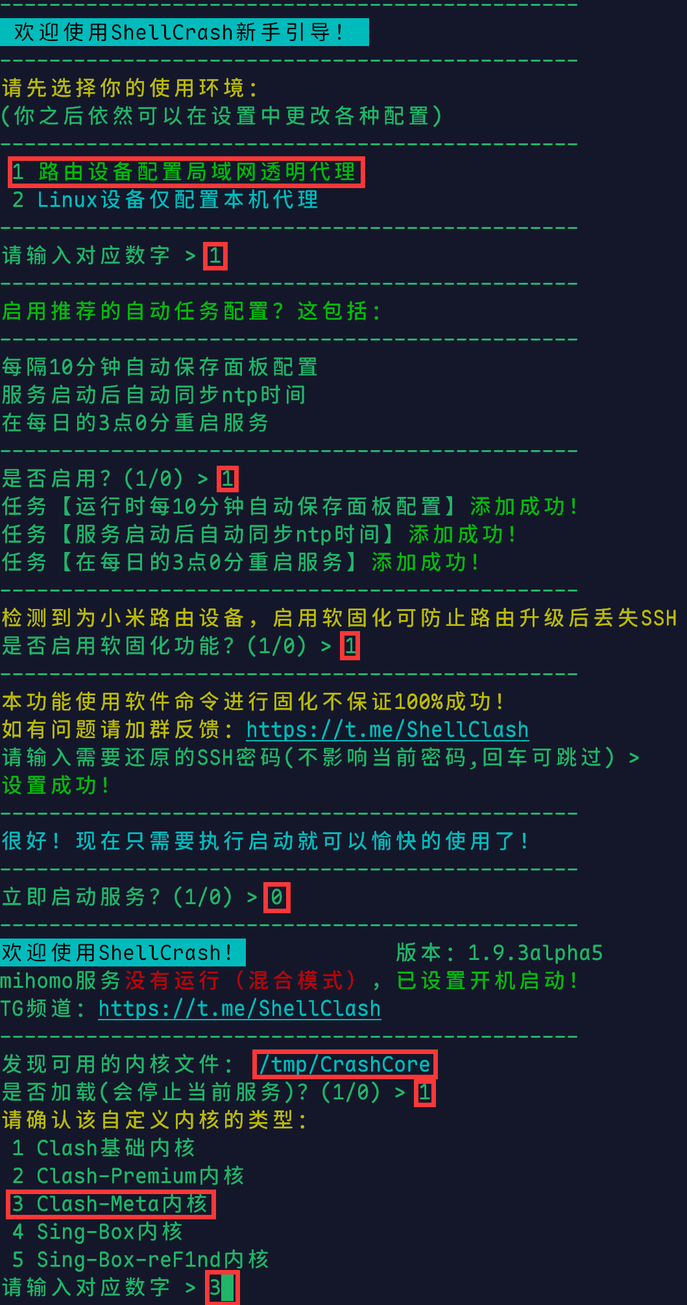
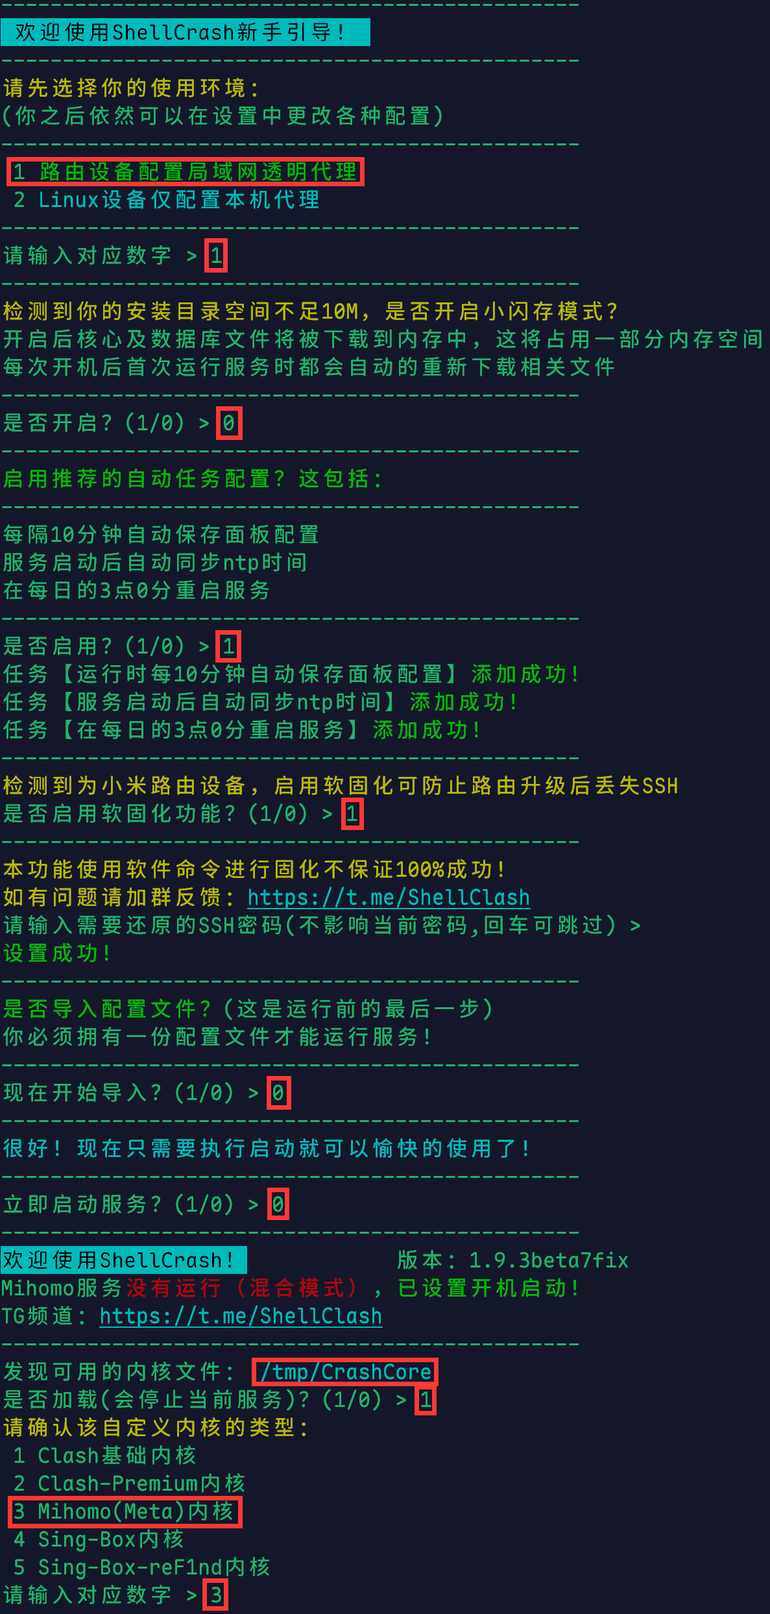
适配 ShellCrash 新版；其它一系列优化

Changed region(s): [[0.0, 0.0, 0.9972, 1.0]]

diff --git a/_posts/2024-08-21-pin-shellcrashadguardhome-singboxr.md b/_posts/2024-08-21-pin-shellcrashadguardhome-singboxr.md
@@ -9,7 +9,7 @@ pin: true
 
 > 说明
 {: .prompt-tip }
-1. 本教程基于 REDMI AX6000 [官方固件](https://www1.miwifi.com/miwifi_download.html) v1.0.70 版，[ShellCrash](https://github.com/juewuy/ShellCrash) v1.9.2 版，[AdGuard Home](https://github.com/AdguardTeam/AdGuardHome) v0.108.0 版编写
+1. 本教程基于 REDMI AX6000 [官方固件](https://www1.miwifi.com/miwifi_download.html) v1.0.70 版，[ShellCrash](https://github.com/juewuy/ShellCrash) v1.9.3 版，[AdGuard Home](https://github.com/AdguardTeam/AdGuardHome) v0.108.0 版编写
 2. 恢复 SSH，安装 ShellCrash 和 AdGuard Home 的方法也适用于其它已解锁 SSH 的路由器
 3. 安装 [sing-box reF1nd 版内核](https://github.com/reF1nd/sing-box) 内核和 AdGuard Home 时须注意路由器 CPU 架构，查看 CPU 架构可连接 SSH 后执行命令 `uname -ms`，若执行结果是“linux aarch64”，就下载 armv8 或 arm64 版安装包；若是其它架构请下载相匹配的安装包
 4. ShellCrash 和 AdGuard Home 中所有没有提到的配置保持默认即可
@@ -268,7 +268,8 @@ echo -e '12345678\n12345678' | passwd root
   ```
 
 - ③ 选择 1 安装到 /data 目录（推荐，支持软固化功能）
-- ④ 将下载的 sing-box-ref1nd-dev-linux-armv8.tar.gz 文件复制到桌面，以管理员身份运行 PowerShell，依次执行如下命令：
+- ④ 根据需要自定义别名（此处选择 `2`）
+- ⑤ 将下载的 sing-box-ref1nd-dev-linux-armv8.tar.gz 文件复制到桌面，以管理员身份运行 PowerShell，依次执行如下命令：
 
   ```
   cd C:\Users\[用户名]\Desktop
@@ -276,33 +277,31 @@ echo -e '12345678\n12345678' | passwd root
   ```
 
   .tar.gz 压缩文件成功解压到桌面上，目录结构为 `C:\Users\[用户名]\Desktop\CrashCore`{: .filepath}
-- ⑤ 将 CrashCore 文件移动到路由器的 `/tmp`{: .filepath} 目录中  
+- ⑥ 将 CrashCore 文件移动到路由器的 `/tmp`{: .filepath} 目录中  
   <img src="/assets/img/pin/move-sing-boxr.png" alt="ShellCrash 安装 2" width="60%" />
 
 **安装 ShellCrash 成功！**
 
 ### 2. ShellCrash 配置
-- ① 连接 SSH 后执行命令 `crash` 即可打开 ShellCrash 配置脚本
+- ① 连接 SSH 后执行命令 `sc` 即可打开 ShellCrash 配置脚本
 - ② 新手引导
   - ➊ 选择 1 路由设备配置局域网透明代理
-  - ➋ 启用推荐的自动任务配置
-  - ➌ 根据需要是否启用软固化（此处选择 `1`，解锁 SSH 时已成功启用软固化）
-  - ➍ 根据需要是否选择 1 确认导入配置文件（此处选择 `0`）
-  - ➎ 根据需要是否选择 1 立即启动服务（此处选择 `0`）
+  - ➋ 根据需要是否开启小内存模式（此处选择 `0`）
+  - ➌ 启用推荐的自动任务配置
+  - ➍ 根据需要是否启用软固化（此处选择 `1`，解锁 SSH 时已成功启用软固化）
+  - ➎ 根据需要是否选择 1 确认导入配置文件（此处选择 `0`）
+  - ➏ 根据需要是否选择 1 立即启动服务（此处选择 `0`）
     - 注：强烈建议选择 `0`，待以下配置完成后，最后一步启动服务
-  - ➏ 此时脚本会自动“发现可用的内核文件”，选择 `1` 加载，后选择 3 Sing-Box-Puer 内核  
+  - ➐ 此时脚本会自动“发现可用的内核文件”，选择 `1` 加载，后选择 3 Sing-Box-reF1nd 内核  
     <img src="/assets/img/pin/import-sing-boxr.png" alt="ShellCrash 配置 1" width="60%" />
 
-  - ➐ 内核加载完成后根据需要是否保留相关数据库文件（此处选择 `0`）
+  - ➑ 内核加载完成后根据需要是否保留相关数据库文件（此处选择 `0`）
 - ③ 模式设置
-  - ➊ 进入主菜单 → 2 内核功能设置 → 1 切换防火墙运行模式，选择 2 混合模式（推荐“混合模式”，其次“Tproxy 模式”，宽带在 300M 内推荐“Tun 模式”）
+  - ➊ 进入主菜单 → 2 内核功能设置 → 1 切换防火墙运行模式（推荐“混合模式”，其次“Tproxy 模式”，宽带在 300M 内推荐“Tun 模式”）
   - ➋ 进入 1 切换防火墙运行模式 → 9 ipv6 设置，若机场节点不支持 IPv6，可关闭 1 ipv6 透明代理  
     <img src="/assets/img/pin/ipv6-setting.png" alt="ShellCrash 配置 2" width="60%" />
 
-  - ➌ 进入 2 切换 DNS 运行模式，选择 3 mix 混合模式  
-    <img src="/assets/img/pin/mix-mix.png" alt="ShellCrash 配置 4" width="60%" />
-
-  - ➍ 进入 2 切换 DNS 运行模式 → 4 DNS 进阶设置，选择 7 禁用 DNS 劫持
+  - ➌ 进入 2 切换 DNS 运行模式 → 4 DNS 进阶设置，选择 7 禁用 DNS 劫持
     - 注：推荐设置 DNS 分流（单独使用 ShellCrash 以及 ShellCrash 搭配 AdGuard Home 都适用），请看《[搭载 sing-boxr 内核进行 DNS 分流教程-geodata 方案](https://proxy-tutorials.dustinwin.us.kg/posts/dnsbypass-singboxr-geodata)》或《[搭载 sing-boxr 内核进行 DNS 分流教程-ruleset 方案](https://proxy-tutorials.dustinwin.us.kg/posts/dnsbypass-singboxr-ruleset)》
 
     <img src="/assets/img/pin/dns-setting.png" alt="ShellCrash 配置 3" width="60%" />
@@ -330,12 +329,12 @@ echo -e '12345678\n12345678' | passwd root
 **配置 ShellCrash 成功！**
 
 **ShellCrash 常用命令：**
-1. 打开配置：`crash`
+1. 打开配置：`sc`
 2. 启动服务：`$CRASHDIR/start.sh start`
 3. 停止服务：`$CRASHDIR/start.sh stop`
 4. 重启服务：`$CRASHDIR/start.sh restart`
 5. 更新订阅：`$CRASHDIR/start.sh update_config`
-6. 查看帮助和说明：`crash -h`
+6. 查看帮助和说明：`sc -h`
 
 ### 3. ShellCrash 升级
 进入主菜单 → 9 更新/卸载，查看“管理脚本”、“内核文件”和“数据库文件”有无新版本，有则选择对应的数字进行升级即可  
@@ -343,7 +342,7 @@ echo -e '12345678\n12345678' | passwd root
 
 ### 4. ShellCrash 卸载
 - ① 通过脚本命令进行卸载（任选一）  
-  连接 SSH 后执行命令 `$CRASHDIR/start.sh stop && crash -u`
+  连接 SSH 后执行命令 `$CRASHDIR/start.sh stop && sc -u`
 - ② 通过 ShellCrash 配置进行卸载（任选一）  
   进入主菜单 → 9 更新/卸载，选择 9 卸载 ShellCrash
 

diff --git a/_posts/2024-08-21-pin-shellcrashadguardhome-mihomo.md b/_posts/2024-08-21-pin-shellcrashadguardhome-mihomo.md
@@ -9,7 +9,7 @@ pin: true
 
 > 说明
 {: .prompt-tip }
-1. 本教程基于 REDMI AX6000 [官方固件](https://www1.miwifi.com/miwifi_download.html) v1.0.70 版，[ShellCrash](https://github.com/juewuy/ShellCrash) v1.9.2 版，[AdGuard Home](https://github.com/AdguardTeam/AdGuardHome) v0.108.0 版编写
+1. 本教程基于 REDMI AX6000 [官方固件](https://www1.miwifi.com/miwifi_download.html) v1.0.70 版，[ShellCrash](https://github.com/juewuy/ShellCrash) v1.9.3 版，[AdGuard Home](https://github.com/AdguardTeam/AdGuardHome) v0.108.0 版编写
 2. 恢复 SSH，安装 ShellCrash 和 AdGuard Home 的方法也适用于其它已解锁 SSH 的路由器
 3. 安装 [mihomo 内核](https://github.com/MetaCubeX/mihomo)和 AdGuard Home 时须注意路由器 CPU 架构，查看 CPU 架构可连接 SSH 后执行命令 `uname -ms`，若执行结果是“linux aarch64”，就下载 armv8 或 arm64 版安装包；若是其它架构请下载相匹配的安装包
 4. ShellCrash 和 AdGuard Home 中所有没有提到的配置保持默认即可
@@ -268,35 +268,34 @@ echo -e '12345678\n12345678' | passwd root
   mkdir -p /tmp/SC_tmp && tar -zxf '/tmp/ShellCrash.tar.gz' -C /tmp/SC_tmp/ && source /tmp/SC_tmp/init.sh
   ```
 
-- ③ 选择 1 安装到 /data 目录（推荐，支持软固化功能）
-- ④ 将下载的 mihomo-linux-arm64-[version].gz 文件解压，得到 mihomo-linux-arm64 文件
-- ⑤ 将 mihomo-linux-arm64 文件移动到路由器的 `/tmp`{: .filepath} 目录中  
+- ③ 选择 1 安装到 /data 目录，剩余空间：*.*M（支持软固化功能）
+- ④ 根据需要自定义别名（此处选择 `2`）
+- ⑤ 将下载的 mihomo-linux-arm64-[version].gz 文件解压，得到 mihomo-linux-arm64 文件
+- ⑥ 将 mihomo-linux-arm64 文件移动到路由器的 `/tmp`{: .filepath} 目录中  
   <img src="/assets/img/pin/move-mihomo.png" alt="ShellCrash 安装 2" width="60%" />
 
 **安装 ShellCrash 成功！**
 
 ### 2. ShellCrash 配置
-- ① 连接 SSH 后执行命令 `crash` 即可打开 ShellCrash 配置脚本
+- ① 连接 SSH 后执行命令 `sc` 即可打开 ShellCrash 配置脚本
 - ② 新手引导
   - ➊ 选择 1 路由设备配置局域网透明代理
-  - ➋ 启用推荐的自动任务配置
-  - ➌ 根据需要是否启用软固化（此处选择 `1`，解锁 SSH 时已成功启用软固化）
-  - ➍ 根据需要是否选择 1 确认导入配置文件（此处选择 `0`）
-  - ➎ 根据需要是否选择 1 立即启动服务（此处选择 `0`）
+  - ➋ 根据需要是否开启小内存模式（此处选择 `0`）
+  - ➌ 启用推荐的自动任务配置
+  - ➍ 根据需要是否启用软固化（此处选择 `1`，解锁 SSH 时已成功启用软固化）
+  - ➎ 根据需要是否选择 1 确认导入配置文件（此处选择 `0`）
+  - ➏ 根据需要是否选择 1 立即启动服务（此处选择 `0`）
     - 注：强烈建议选择 `0`，待以下配置完成后，最后一步启动服务
-  - ➏ 此时脚本会自动“发现可用的内核文件”，选择 `1` 加载，后选择 3 Clash-Meta 内核  
+  - ➐ 此时脚本会自动“发现可用的内核文件”，选择 `1` 加载，后选择 3 Mihomo(Meta) 内核  
     <img src="/assets/img/pin/import-mihomo.png" alt="ShellCrash 配置 1" width="60%" />
 
-  - ➐ 内核加载完成后根据需要是否保留相关数据库文件（此处选择 `0`）
+  - ➑ 内核加载完成后根据需要是否保留相关数据库文件（此处选择 `0`）
 - ③ 模式设置
-  - ➊ 进入主菜单 → 2 内核功能设置 → 1 切换防火墙运行模式，选择 2 混合模式（推荐“混合模式”，其次“Tproxy 模式”，宽带在 300M 内推荐“Tun 模式”）
+  - ➊ 进入主菜单 → 2 内核功能设置 → 1 切换防火墙运行模式（推荐“混合模式”，其次“Tproxy 模式”，宽带在 300M 内推荐“Tun 模式”）
   - ➋ 进入 1 切换防火墙运行模式 → 9 ipv6 设置，若机场节点不支持 IPv6，可关闭 1 ipv6 透明代理  
     <img src="/assets/img/pin/ipv6-setting.png" alt="ShellCrash 配置 2" width="60%" />
 
-  - ➌ 进入 2 切换 DNS 运行模式，选择 3 mix 混合模式  
-    <img src="/assets/img/pin/mix-mix.png" alt="ShellCrash 配置 4" width="60%" />
-
-  - ➍ 进入 2 切换 DNS 运行模式 → 4 DNS 进阶设置，选择 7 禁用 DNS 劫持
+  - ➌ 进入 2 切换 DNS 运行模式 → 4 DNS 进阶设置，选择 7 禁用 DNS 劫持
     - 注：推荐设置 DNS 分流（单独使用 ShellCrash 以及 ShellCrash 搭配 AdGuard Home 都适用），请看《[搭载 mihomo 内核进行 DNS 分流教程-geodata 方案](https://proxy-tutorials.dustinwin.us.kg/posts/dnsbypass-mihomo-geodata)》或《[搭载 mihomo 内核进行 DNS 分流教程-ruleset 方案](https://proxy-tutorials.dustinwin.us.kg/posts/dnsbypass-mihomo-ruleset)》
 
     <img src="/assets/img/pin/dns-setting.png" alt="ShellCrash 配置 3" width="60%" />
@@ -325,12 +324,12 @@ echo -e '12345678\n12345678' | passwd root
 **配置 ShellCrash 成功！**
 
 **ShellCrash 常用命令：**
-1. 打开配置：`crash`
+1. 打开配置：`sc`
 2. 启动服务：`$CRASHDIR/start.sh start`
 3. 停止服务：`$CRASHDIR/start.sh stop`
 4. 重启服务：`$CRASHDIR/start.sh restart`
 5. 更新订阅：`$CRASHDIR/start.sh update_config`
-6. 查看帮助和说明：`crash -h`
+6. 查看帮助和说明：`sc -h`
 
 ### 3. ShellCrash 升级
 进入主菜单 → 9 更新/卸载，查看“管理脚本”、“内核文件”和“数据库文件”有无新版本，有则选择对应的数字进行升级即可  
@@ -338,7 +337,7 @@ echo -e '12345678\n12345678' | passwd root
 
 ### 4. ShellCrash 卸载
 - ① 通过脚本命令进行卸载（任选一）  
-  连接 SSH 后执行命令 `$CRASHDIR/start.sh stop && crash -u`
+  连接 SSH 后执行命令 `$CRASHDIR/start.sh stop && sc -u`
 - ② 通过 ShellCrash 配置进行卸载（任选一）  
   进入主菜单 → 9 更新/卸载，选择 9 卸载 ShellCrash
 

diff --git a/_posts/2024-08-21-toolsettings-shellcrash-mihomo-geodata.md b/_posts/2024-08-21-toolsettings-shellcrash-mihomo-geodata.md
@@ -48,22 +48,21 @@ curl -o $CRASHDIR/Country.mmdb -L https://cdn.jsdelivr.net/gh/DustinWin/ruleset_
 1. 连接 SSH 后执行命令 `crash` 即可打开 ShellCrash 配置脚本
 2. 新手引导
    - ① 选择 1 路由设备配置局域网透明代理
-   - ② 启用推荐的自动任务配置
-   - ③ 根据需要是否启用软固化（此处选择 `1`，解锁 SSH 时已成功启用软固化）
-   - ④ 根据需要是否选择 1 确认导入配置文件（此处选择 `0`）
-   - ⑤ 根据需要是否选择 1 立即启动服务（此处选择 `0`）
+   - ② 根据需要是否开启小内存模式（此处选择 `0`）
+   - ③ 启用推荐的自动任务配置
+   - ④ 根据需要是否启用软固化（此处选择 `1`，解锁 SSH 时已成功启用软固化）
+   - ⑤ 根据需要是否选择 1 确认导入配置文件（此处选择 `0`）
+   - ⑥ 根据需要是否选择 1 立即启动服务（此处选择 `0`）
      - 注：强烈建议选择 `0`，待以下配置完成后，最后一步启动服务
-   - ⑥ 此时脚本会自动“发现可用的内核文件”，选择 `1` 加载，后选择 3 Clash-Meta 内核  
+   - ⑦ 此时脚本会自动“发现可用的内核文件”，选择 `1` 加载，后选择 3 Mihomo(Meta) 内核  
      <img src="/assets/img/pin/import-mihomo.png" alt="ShellCrash 配置 1" width="60%" />
 
-   - ⑦ 内核加载完成后根据需要是否保留相关数据库文件（此处选择 `0`）
+   - ⑧ 内核加载完成后根据需要是否保留相关数据库文件（此处选择 `0`）
 3. 进入主菜单 → 9 更新/卸载 → 7 切换安装源及安装版本，选择 b 切换至公测版 → 1 Jsdelivr_CDN源（推荐）
 4. 进入主菜单 → 9 更新/卸载 → 4 安装本地 Dashboard 面板，选择 4 安装 zashboard 面板（也可跳过此步，直接使用《[五](https://proxy-tutorials.dustinwin.us.kg/posts/toolsettings-shellcrash-mihomo-geodata/#%E4%BA%94-%E5%9C%A8%E7%BA%BF-dashboard-%E9%9D%A2%E6%9D%BF)》中的在线 Dashboard 面板）  
 <img src="/assets/img/tools/install-dashboard.png" alt="安装面板" width="60%" />
 
-5. 进入主菜单 → 2 内核功能设置，设置如下（推荐“混合模式”，其次“Tproxy 模式”，宽带在 300M 内推荐“Tun 模式”）：  
-<img src="/assets/img/pin/mix-mix.png" alt="设置部分 1" width="60%" />
-
+5. 进入主菜单 → 2 内核功能设置（推荐“混合模式”，其次“Tproxy 模式”，宽带在 300M 内推荐“Tun 模式”）
 6. 进入主菜单 → 4 内核启动设置，选择 1 允许 ShellCrash 开机启动（若重启路由器后服务没有自动运行，可“设置自启延时”为 `30` 秒）
 7. 进入主菜单 → 5 配置自动任务 → 1 添加自动任务，可以看到末尾就有《[三](https://proxy-tutorials.dustinwin.us.kg/posts/toolsettings-shellcrash-mihomo-geodata/#%E4%B8%89-%E6%B7%BB%E5%8A%A0%E5%AE%9A%E6%97%B6%E4%BB%BB%E5%8A%A1)》中添加的定时任务，输入对应的数字并回车后可设置执行条件
 8. 进入主菜单 → 7 内核进阶设置 → 4 启用域名嗅探（若 `$CRASHDIR/yamls/user.yaml` 配置了 `sniffer` 则跳过此步骤）

diff --git a/_posts/2024-08-21-toolsettings-shellcrash-mihomo-ruleset.md b/_posts/2024-08-21-toolsettings-shellcrash-mihomo-ruleset.md
@@ -39,22 +39,21 @@ curl -L https://ghfast.top/https://github.com/DustinWin/proxy-tools/releases/dow
 1. 连接 SSH 后执行命令 `crash` 即可打开 ShellCrash 配置脚本
 2. 新手引导
    - ① 选择 1 路由设备配置局域网透明代理
-   - ② 启用推荐的自动任务配置
-   - ③ 根据需要是否启用软固化（此处选择 `1`，解锁 SSH 时已成功启用软固化）
-   - ④ 根据需要是否选择 1 确认导入配置文件（此处选择 `0`）
-   - ⑤ 根据需要是否选择 1 立即启动服务（此处选择 `0`）
+   - ② 根据需要是否开启小内存模式（此处选择 `0`）
+   - ③ 启用推荐的自动任务配置
+   - ④ 根据需要是否启用软固化（此处选择 `1`，解锁 SSH 时已成功启用软固化）
+   - ⑤ 根据需要是否选择 1 确认导入配置文件（此处选择 `0`）
+   - ⑥ 根据需要是否选择 1 立即启动服务（此处选择 `0`）
      - 注：强烈建议选择 `0`，待以下配置完成后，最后一步启动服务
-   - ⑥ 此时脚本会自动“发现可用的内核文件”，选择 `1` 加载，后选择 3 Clash-Meta 内核  
+   - ⑦ 此时脚本会自动“发现可用的内核文件”，选择 `1` 加载，后选择 3 Mihomo(Meta) 内核  
      <img src="/assets/img/pin/import-mihomo.png" alt="ShellCrash 配置 1" width="60%" />
 
-   - ⑦ 内核加载完成后根据需要是否保留相关数据库文件（此处选择 `0`）
+   - ⑧ 内核加载完成后根据需要是否保留相关数据库文件（此处选择 `0`）
 3. 进入主菜单 → 9 更新/卸载 → 7 切换安装源及安装版本，选择 b 切换至公测版 → 1 Jsdelivr_CDN源（推荐）
 4. 进入主菜单 → 9 更新/卸载 → 4 安装本地 Dashboard 面板，选择 4 安装 zashboard 面板（也可跳过此步，直接使用《[四](https://proxy-tutorials.dustinwin.us.kg/posts/toolsettings-shellcrash-mihomo-ruleset/#%E5%9B%9B-%E5%9C%A8%E7%BA%BF-dashboard-%E9%9D%A2%E6%9D%BF)》中的在线 Dashboard 面板）  
 <img src="/assets/img/tools/install-dashboard.png" alt="安装面板" width="60%" />
 
-5. 进入主菜单 → 2 内核功能设置，设置如下（推荐“混合模式”，其次“Tproxy 模式”，宽带在 300M 内推荐“Tun 模式”）：  
-<img src="/assets/img/pin/mix-mix.png" alt="设置部分 1" width="60%" />
-
+5. 进入主菜单 → 2 内核功能设置（推荐“混合模式”，其次“Tproxy 模式”，宽带在 300M 内推荐“Tun 模式”）
 6. 进入主菜单 → 4 内核启动设置，选择 1 允许 ShellCrash 开机启动（若重启路由器后服务没有自动运行，可“设置自启延时”为 `30` 秒）
 7. 进入主菜单 → 5 配置自动任务 → 1 添加自动任务，可以看到末尾就有《[二](https://proxy-tutorials.dustinwin.us.kg/posts/toolsettings-shellcrash-mihomo-ruleset/#%E4%BA%8C-%E6%B7%BB%E5%8A%A0%E5%AE%9A%E6%97%B6%E4%BB%BB%E5%8A%A1)》中添加的定时任务，输入对应的数字并回车后可设置执行条件
 8. 进入主菜单 → 7 内核进阶设置 → 4 启用域名嗅探（若 `$CRASHDIR/yamls/user.yaml` 配置了 `sniffer` 则跳过此步骤）

diff --git a/_posts/2024-08-22-toolsettings-shellcrash-singboxr-ruleset.md b/_posts/2024-08-22-toolsettings-shellcrash-singboxr-ruleset.md
@@ -39,22 +39,21 @@ curl -L https://ghfast.top/https://github.com/DustinWin/proxy-tools/releases/dow
 1. 连接 SSH 后执行命令 `crash` 即可打开 ShellCrash 配置脚本
 2. 新手引导
    - ① 选择 1 路由设备配置局域网透明代理
-   - ② 启用推荐的自动任务配置
-   - ③ 根据需要是否启用软固化（此处选择 `1`，解锁 SSH 时已成功启用软固化）
-   - ④ 根据需要是否选择 1 确认导入配置文件（此处选择 `0`）
-   - ⑤ 根据需要是否选择 1 立即启动服务（此处选择 `0`）
+   - ② 根据需要是否开启小内存模式（此处选择 `0`）
+   - ③ 启用推荐的自动任务配置
+   - ④ 根据需要是否启用软固化（此处选择 `1`，解锁 SSH 时已成功启用软固化）
+   - ⑤ 根据需要是否选择 1 确认导入配置文件（此处选择 `0`）
+   - ⑥ 根据需要是否选择 1 立即启动服务（此处选择 `0`）
      - 注：强烈建议选择 `0`，待以下配置完成后，最后一步启动服务
-   - ⑥ 此时脚本会自动“发现可用的内核文件”，选择 `1` 加载，后选择 3 Sing-Box-Puer 内核  
+   - ⑦ 此时脚本会自动“发现可用的内核文件”，选择 `1` 加载，后选择 3 Sing-Box-reF1nd 内核  
      <img src="/assets/img/pin/import-sing-boxr.png" alt="ShellCrash 配置 1" width="60%" />
 
-   - ⑦ 内核加载完成后根据需要是否保留相关数据库文件（此处选择 `0`）
+   - ⑧ 内核加载完成后根据需要是否保留相关数据库文件（此处选择 `0`）
 3. 进入主菜单 → 9 更新/卸载 → 7 切换安装源及安装版本，选择 b 切换至公测版 → 1 Jsdelivr_CDN源（推荐）
 4. 进入主菜单 → 9 更新/卸载 → 4 安装本地 Dashboard 面板，选择 3 安装 MetaXD 面板（也可跳过此步，使用《[四](https://proxy-tutorials.dustinwin.us.kg/posts/toolsettings-shellcrash-singboxr-ruleset/#%E5%9B%9B-%E5%9C%A8%E7%BA%BF-dashboard-%E9%9D%A2%E6%9D%BF)》中的在线 Dashboard 面板）  
 <img src="/assets/img/tools/install-dashboard.png" alt="安装面板" width="60%" />
 
-5. 进入主菜单 → 2 内核功能设置，设置如下（推荐“混合模式”，其次“Tproxy 模式”，宽带在 300M 内推荐“Tun 模式”）：  
-<img src="/assets/img/pin/mix-mix.png" alt="设置部分 1" width="60%" />
-
+5. 进入主菜单 → 2 内核功能设置（推荐“混合模式”，其次“Tproxy 模式”，宽带在 300M 内推荐“Tun 模式”）
 6. 进入主菜单 → 4 内核启动设置，选择 1 允许 ShellCrash 开机启动（若重启路由器后服务没有自动运行，可“设置自启延时”为 `30` 秒）
 7. 进入主菜单 → 5 配置自动任务 → 1 添加自动任务，可以看到末尾就有《[二](https://proxy-tutorials.dustinwin.us.kg/posts/toolsettings-shellcrash-singboxr-ruleset/#%E4%BA%8C-%E6%B7%BB%E5%8A%A0%E5%AE%9A%E6%97%B6%E4%BB%BB%E5%8A%A1)》中添加的定时任务，输入对应的数字并回车后可设置执行条件
 8. 进入主菜单 → 7 内核进阶设置 → 4 启用域名嗅探

diff --git a/_posts/2024-08-21-dnsbypass-mihomo-geodata.md b/_posts/2024-08-21-dnsbypass-mihomo-geodata.md
@@ -17,13 +17,10 @@ tags: [Clash, mihomo, 进阶, DNS, DNS 分流]
 geosite.dat 文件须包含 `fakeip-filter` 和 `cn`，推荐导入我定制的[路由规则文件](https://github.com/DustinWin/ruleset_geodata?tab=readme-ov-file#%E4%B8%80-geodata-%E6%96%87%E4%BB%B6%E8%AF%B4%E6%98%8E)
 
 ## 二、 DNS 分流配置
-1. 进入主菜单 → 2 内核功能设置 → 2 切换 DNS 运行模式，选择“3 mix混合模式”  
-<img src="/assets/img/dns/dns-mix.png" alt="ShellCrash DNS 运行模式设置" width="60%" />
-
-2. 进入主菜单 → 2 内核功能设置 → 2 切换 DNS 运行模式 → 4 DNS 进阶设置，将“当前基础 DNS”和“PROXY-DNS”都设置为 `null`  
+1. 进入主菜单 → 2 内核功能设置 → 2 切换 DNS 运行模式 → 4 DNS 进阶设置，将“当前基础 DNS”和“PROXY-DNS”都设置为 `null`  
 <img src="/assets/img/dns/dns-null.png" alt="ShellCrash DNS 进阶设置" width="60%" />
 
-3. 连接 SSH 后执行命令 `vi $CRASHDIR/yamls/user.yaml`，按一下 Ins 键（Insert 键），粘贴如下内容：
+2. 连接 SSH 后执行命令 `vi $CRASHDIR/yamls/user.yaml`，按一下 Ins 键（Insert 键），粘贴如下内容：
 
 ```yaml
 hosts:

diff --git a/_posts/2024-08-22-share-shellcrashadguardhome-singboxr-ruleset.md b/_posts/2024-08-22-share-shellcrashadguardhome-singboxr-ruleset.md
@@ -294,10 +294,9 @@ crash
       { "ip_accept_any": true, "server": "hosts" },
       { "clash_mode": [ "Direct" ], "query_type": [ "A", "AAAA" ], "server": "dns_direct" },
       { "clash_mode": [ "Global" ], "query_type": [ "A", "AAAA" ], "server": "dns_proxy" },
-      { "rule_set": [ "ads" ], "action": "predefined" },
-      { "domain": [ "services.googleapis.cn" ], "query_type": [ "A", "AAAA" ], "server": "dns_fakeip" },
-      { "rule_set": [ "fakeip-filter", "private", "cn" ], "query_type": [ "A", "AAAA" ], "server": "dns_direct", "rewrite_ttl": 1 },
-      { "rule_set": [ "proxy" ], "query_type": [ "A", "AAAA" ], "server": "dns_fakeip" }
+      { "rule_set": [ "fakeip-filter" ], "query_type": [ "A", "AAAA" ], "server": "dns_direct", "rewrite_ttl": 1 },
+      { "rule_set": [ "proxy" ], "query_type": [ "A", "AAAA" ], "server": "dns_fakeip" },
+      { "rule_set": [ "private", "cn" ], "query_type": [ "A", "AAAA" ], "server": "dns_direct", "rewrite_ttl": 1 }
     ],
     "final": "dns_proxy",
     "strategy": "prefer_ipv4",

diff --git a/_posts/2024-08-21-dnsbypass-mihomo-ruleset.md b/_posts/2024-08-21-dnsbypass-mihomo-ruleset.md
@@ -36,13 +36,10 @@ rule-providers:
 ```
 
 ## 二、 DNS 分流配置
-1. 进入主菜单 → 2 内核功能设置 → 2 切换 DNS 运行模式，选择“3 mix混合模式”  
-<img src="/assets/img/dns/dns-mix.png" alt="ShellCrash DNS 运行模式设置" width="60%" />
-
-2. 进入主菜单 → 2 内核功能设置 → 2 切换 DNS 运行模式 → 4 DNS 进阶设置，将“当前基础 DNS”和“PROXY-DNS”都设置为 `null`  
+1. 进入主菜单 → 2 内核功能设置 → 2 切换 DNS 运行模式 → 4 DNS 进阶设置，将“当前基础 DNS”和“PROXY-DNS”都设置为 `null`  
 <img src="/assets/img/dns/dns-null.png" alt="ShellCrash DNS 进阶设置" width="60%" />
 
-3. 连接 SSH 后执行命令 `vi $CRASHDIR/yamls/user.yaml`，按一下 Ins 键（Insert 键），粘贴如下内容：
+2. 连接 SSH 后执行命令 `vi $CRASHDIR/yamls/user.yaml`，按一下 Ins 键（Insert 键），粘贴如下内容：
 
 ```yaml
 hosts:
